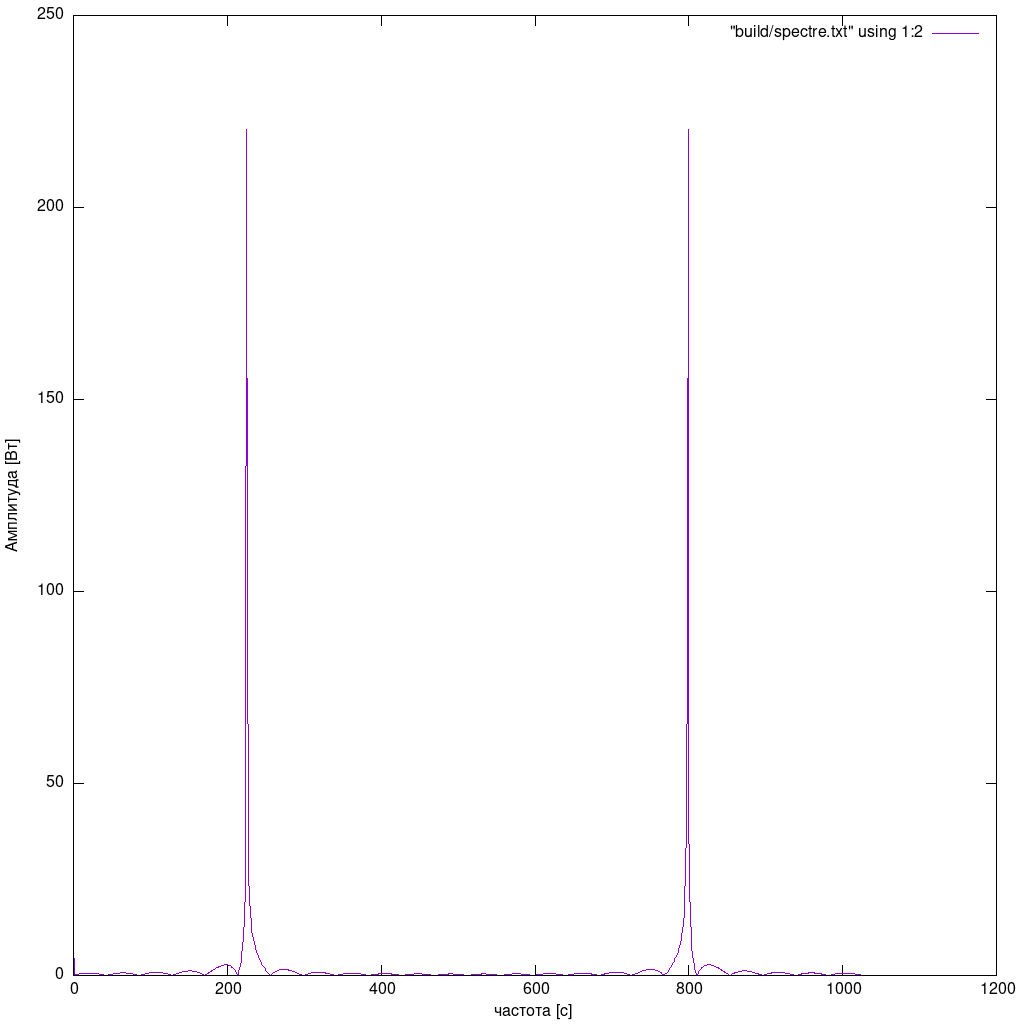
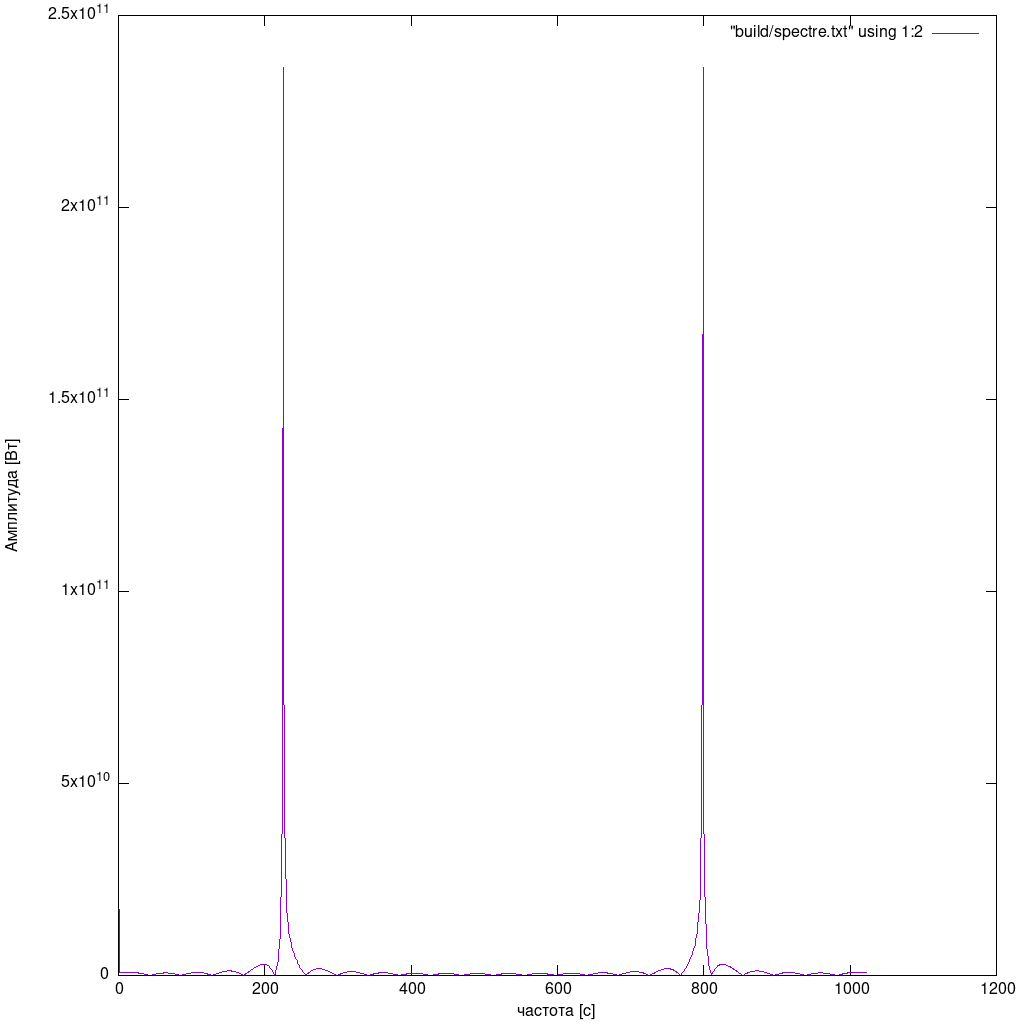
old version of modulator

diff --git a/task2/main.cpp b/task2/main.cpp
@@ -1,18 +1,50 @@
 #include "file_writer.h"
 #include "receiver.h"
+#include "src/headers/file_writer.h"
+#include "src/headers/generator.h"
+
+void g_error_processor(const std::vector<int32_t>& data_1,
+                       const std::vector<int32_t>& data_2,
+                             std::vector<double>&   error_data)
+{
+    error_data.clear();
+    error_data.resize(data_1.size());
+
+    for (uint64_t i = 0; i < data_1.size(); ++i)
+        error_data[i] = ((double)data_1[i] - (double)data_2[i]) / AMPL / AMPL;
+
+    return;
+}
+
+void g_error_processorQPSK(
+    const std::vector<int32_t>& data_1,
+    const std::vector<int32_t>& data_2,
+          std::vector<double>&   error_data)
+{
+error_data.clear();
+error_data.resize(data_1.size());
+
+for (uint64_t i = 0; i < data_1.size(); ++i)
+error_data[i] = ((double)data_1[i] * (double)data_2[i]) / AMPL / AMPL / AMPL / AMPL;
+
+return;
+}
 
 int main()
 {
     std::vector<int16_t> data;          // Data from generator
     std::vector<int16_t> filter_data;   // Filtered data from generator
-    std::vector<int16_t> receive_data_1;// Data from channel 1 from receiver
-    std::vector<int16_t> receive_data_2;// Data from channel 2 from receiver
+    std::vector<int32_t> receive_data_1;// Data from channel 1 from receiver
+    std::vector<int32_t> receive_data_2;// Data from channel 2 from receiver
     std::vector<double>  time_p;        // Time points data
 
     double   freq        = 110;         // Frequency of signal
     double   sample_rate = 1000;        // Sample rate of signal
     uint64_t N           = 1000;        // Number of points
     double   phase       = 0;           // Phase of generated signal in 
+    double   max_phase   = pi2;
+    int      num_steps = 100;
+    double   d_phase = max_phase / num_steps;
 
     data.resize(N);
     filter_data.resize(N);
@@ -21,32 +53,36 @@ int main()
     for(uint64_t i = 0; i < N; ++i)
         time_p[i] = i;
 
-    std::cout << "Type freq, sample_rate, phase (deg), N:" << std::endl;
-    std::cin >> freq >> sample_rate >> phase >> N;
-
-    // Convert into radians
-    phase = pi2 /  360.;
-
-    // Generate data
 
     Generator gen(freq, sample_rate);
-
-    gen.SetPhase(phase);
-    gen.GenData(data);
-
-    // Filter data
-    Filter filter(freq * 1.5, sample_rate);
-    filter.Process(data, filter_data);
-
-    // Receive data
     Receiver receiver(freq, sample_rate);
-    receiver.Process(data, receive_data_1, receive_data_2);
 
-    // Write to file
-    writeToFile(time_p, data, "gen_data.txt");
-    //writeToFile(time_p, filter_data, "gen_data.txt");
-    writeToFile(time_p, receive_data_1, "receive_data_1.txt");
-    writeToFile(time_p, receive_data_2, "receive_data_2.txt");
+    std::vector<double> error_data;
+    std::vector<double> error_ids(num_steps);
+    std::vector<double> avg_error(num_steps, 0);
+
+    for (int i = 0; i < num_steps; ++i)
+    {
+        error_ids[i] = phase;
+        // Generate data
+        gen.SetPhase(phase);
+        gen.GenData(data);
+
+        // Receive data
+        receiver.Process(data, receive_data_1, receive_data_2, true);
+
+        g_error_processor(receive_data_1, receive_data_2, error_data);
+
+        for(auto&item:error_data)
+            avg_error[i] += item;
+        avg_error[i] /= error_data.size();
+
+        phase += d_phase;
+       /* if (fabs(avg_error[i]) < 0.1)
+            std::cout << "Zero error phase: " << phase << ", error: " << avg_error[i] << ", i: " << i << std::endl;
+    */}
+
+    writeToFile(error_ids, avg_error, "error_data.txt");
 
     return 0;
 }

diff --git a/task2/src/headers/receiver.h b/task2/src/headers/receiver.h
@@ -14,6 +14,14 @@ class Receiver
     double     m_freq        = 0;          // Signal frequency
     double     m_sample_rate = 0;          // Sample rate
 
+
+    template<typename T> T Sign(T val){
+        T res = (val >= 0) ? 1: -1;
+        //if (res == -1)
+          //  std::cout << val << std::endl;
+        return res;
+    }
+
     public:
 
     // Constructor
@@ -43,8 +51,8 @@ class Receiver
         [out] data_out_1 - output data from channel teo (cos)
         return void
     */
-    template<typename DATA_TYPE>
-    void Process(const std::vector<DATA_TYPE>& data_in, std::vector<DATA_TYPE>& data_out_1, std::vector<DATA_TYPE>& data_out_2)
+    template<typename DATA_TYPE, typename OUT_DATA_TYPE>
+    void Process(const std::vector<DATA_TYPE>& data_in, std::vector<OUT_DATA_TYPE>& data_out_1, std::vector<OUT_DATA_TYPE>& data_out_2, bool isQPSK = false)
     {
         uint64_t size = data_in.size();
 
@@ -58,8 +66,8 @@ class Receiver
         std::vector<DATA_TYPE> temp_data;
         
         // int16_t * int16_t != int16_t (we need to normalize data)
-        std::vector<double> double_temp_1;   
-        std::vector<double> double_temp_2;
+        std::vector<OUT_DATA_TYPE> double_temp_1;   
+        std::vector<OUT_DATA_TYPE> double_temp_2;
 
         temp_data.resize(size);
         double_temp_1.resize(size);
@@ -71,13 +79,13 @@ class Receiver
 
         // Multyply sin
         for (uint64_t i = 0; i < size; ++i)
-            double_temp_1[i] = static_cast<double>(temp_data[i]) / AMPL  * static_cast<double>(data_in[i]) / AMPL;
+            double_temp_1[i] = temp_data[i] * data_in[i];
 
         // Filtering sin data
         m_filter->Process(double_temp_1, double_temp_2);
         
         for (uint64_t i = 0; i < size; ++i)
-            data_out_1[i] = static_cast<DATA_TYPE>(double_temp_2[i] * AMPL);
+            data_out_1[i] = double_temp_2[i];
 
         // Generate cos data
         m_generator->SetPhase(pi2 / 4.);
@@ -85,13 +93,28 @@ class Receiver
 
         // Multyply cos
         for (uint64_t i = 0; i < size; ++i)
-            double_temp_1[i] = static_cast<double>(temp_data[i]) / AMPL * static_cast<double>(data_in[i]) / AMPL;
+            double_temp_1[i] = temp_data[i] * data_in[i];
 
         // Filtering cos data
         m_filter->Process(double_temp_1, double_temp_2);
 
         for (uint64_t i = 0; i < size; ++i)
-            data_out_2[i] = static_cast<DATA_TYPE>(double_temp_2[i] * AMPL);
+            data_out_2[i] = double_temp_2[i];
+
+        // QPSK receiver processing
+        if (isQPSK)
+        {
+            OUT_DATA_TYPE temp;
+            for (uint64_t i = 0; i < data_out_1.size(); ++i)
+            {
+                // branch 1
+                temp = data_out_1[i];
+                data_out_1[i] *= Sign<OUT_DATA_TYPE>(data_out_2[i]);
+
+                // branch 2
+                data_out_2[i] *= Sign<OUT_DATA_TYPE>(temp);
+            }
+        }
 
         return;
     }

diff --git a/task2/src/cpp/math_func.cpp b/task2/src/cpp/math_func.cpp
@@ -14,7 +14,7 @@ bool g_fft(std::vector<std::complex<double>>& data, bool flag)
     uint64_t logN = std::log2(data.size());
     uint64_t size = data.size();
 
-    std::cout << "size: " << size << std::endl;
+    //std::cout << "size: " << size << std::endl;
 
     // Parameters error check:
     if ((size > 16384) || (size < 1))                      return false;

diff --git a/task2/src/headers/filter.h b/task2/src/headers/filter.h
@@ -108,8 +108,8 @@ class Filter
 
         start_id = m_cut_freq / d_f;
 
-        std::cout << "d_f: " << d_f << std::endl;
-        std::cout << "start_id: " << start_id << std::endl;
+        //std::cout << "d_f: " << d_f << std::endl;
+        //std::cout << "start_id: " << start_id << std::endl;
 
         // output spectre
         std::vector<double> ampl;

diff --git a/task2/src/headers/file_writer.h b/task2/src/headers/file_writer.h
@@ -5,6 +5,7 @@
 #include <fstream>
 #include <vector>
 #include <string>
+#include <cstdint>
 
 // function for writing data in file
 /*

diff --git a/task2/src/headers/math_func.h b/task2/src/headers/math_func.h
@@ -3,6 +3,7 @@
 
 #include <complex>
 #include <vector>
+#include <cstdint>
 
 #define DIRECT  true
 #define INVERSE false
